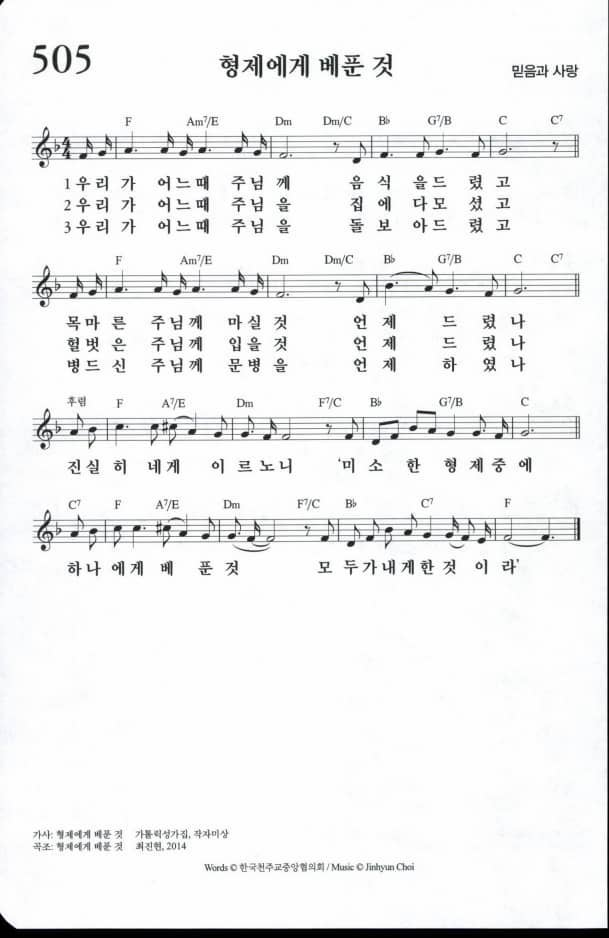
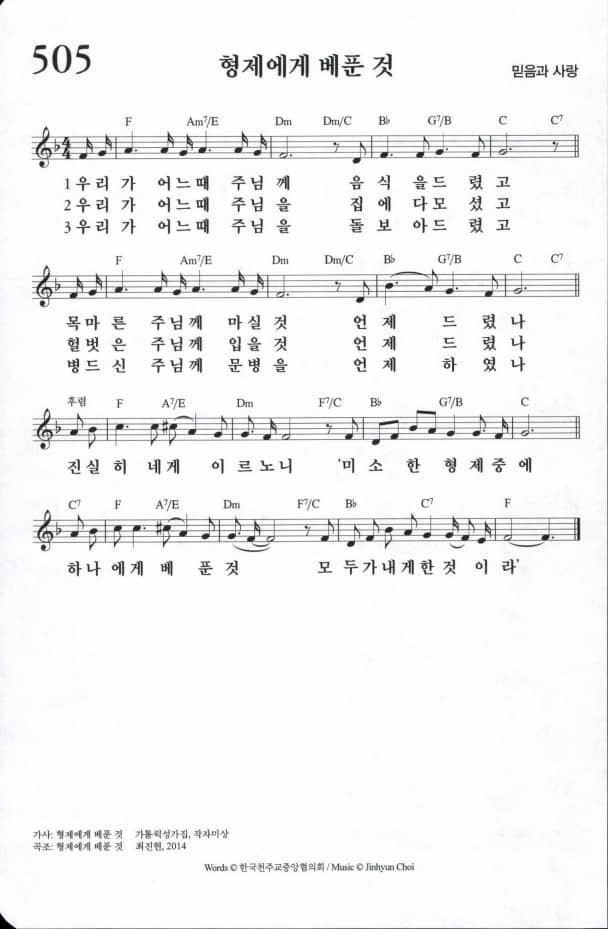
fix(jubo): 성가 악보 이미지의 검은 스캔 테두리를 잘라낸다 (#700)
* fix(jubo): 성가 악보 이미지의 검은 스캔 테두리를 잘라낸다

- 순서지가 쓰는 성가 악보(hymnal-2015 images·unison-images) 가장자리의 검은 띠 제거
- 악보 내용은 바꾸지 않고 테두리 픽셀만 자름

* docs(jubo): 성가 악보 검은 스캔 테두리는 올리기 전에 자른다는 규칙 명시

- AGENTS.md 주보 요점과 순서지 절차 문서에 같은 기준 추가
- 가장자리 밝기 평균 100 미만인 줄 제거, 악보 내용은 그대로

---------

diff --git a/AGENTS.md b/AGENTS.md
@@ -54,5 +54,6 @@
 - 주보제작에서 `book.json`을 만든 뒤 `node scripts/hymnal-web-exclude.js`를 실행한다(순서지가 쓰는 성가 악보만 웹에 공개, 나머지 스캔은 비공개 — `docs/REPO-STRUCTURE.md` 끝).
 - 순서지는 휴대폰 앱 화면 전용이다. 인쇄는 고려하지 않는다(2026-11-22 사용자 확정).
 - 교회소식 표기: 여러 줄 내용은 `- ` 점 목록으로(소그룹 명단은 `- 소그룹N 인도자 : 이름 (층) / 명단`). 줄 표기만 바꾸고 인쇄된 글은 고치지 않는다. 굵은 글씨·제목 등 새 표기는 디자인 승인 뒤에만(2026-11-22).
+- **성가 악보 검은 테두리(2026-11-22 사용자 지시)** — 순서지에 쓰는 악보 이미지는 가장자리의 검은 스캔 띠를 잘라서 쓴다(밝기 평균 100 미만인 가장자리 줄 제거, 악보 내용은 그대로). 새 악보도 같은 처리를 한다.
 - **기도서·성가·성서 출처(2026-11-22 사용자 확정)** — 기도서 본문은 `data/worship-texts/bcp.json`에 쪽마다 기록된 출처(교회 예배 슬라이드 또는 온라인 기도서 `dulkuka12.github.io/kbcp/ucharist-form1.html`)만 쓴다. 따로 받은 예식문 PDF가 있는 주는 그 글을 따른다. 쪽 번호는 항상 주보 인쇄 값을 따른다(성체나눔 포함, 2026-11-22 사용자 지시). 어디에도 없는 본문은 추측으로 채우지 않고 비워 두고 보고한다. 온라인 기도서는 교회 공식 자료가 아니므로 주소가 바뀌면 직접 확인한다. 상세 `docs/bulletin-procedure.md` 6-1.
 - 완료 보고 링크: https://gmskh.or.kr/jubo/ , https://frpsy.github.io/gmchurch_web/jubo/ (날짜별 링크는 요청 시에만).
